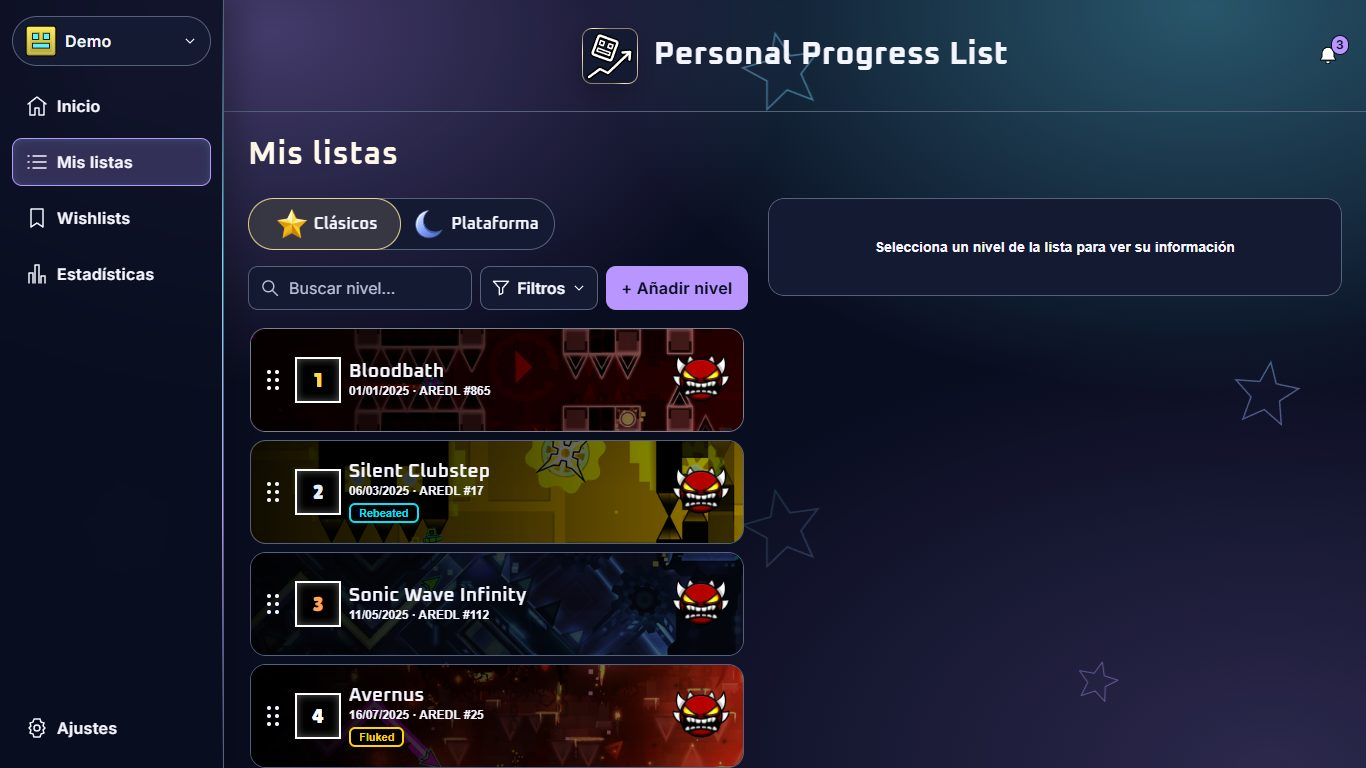
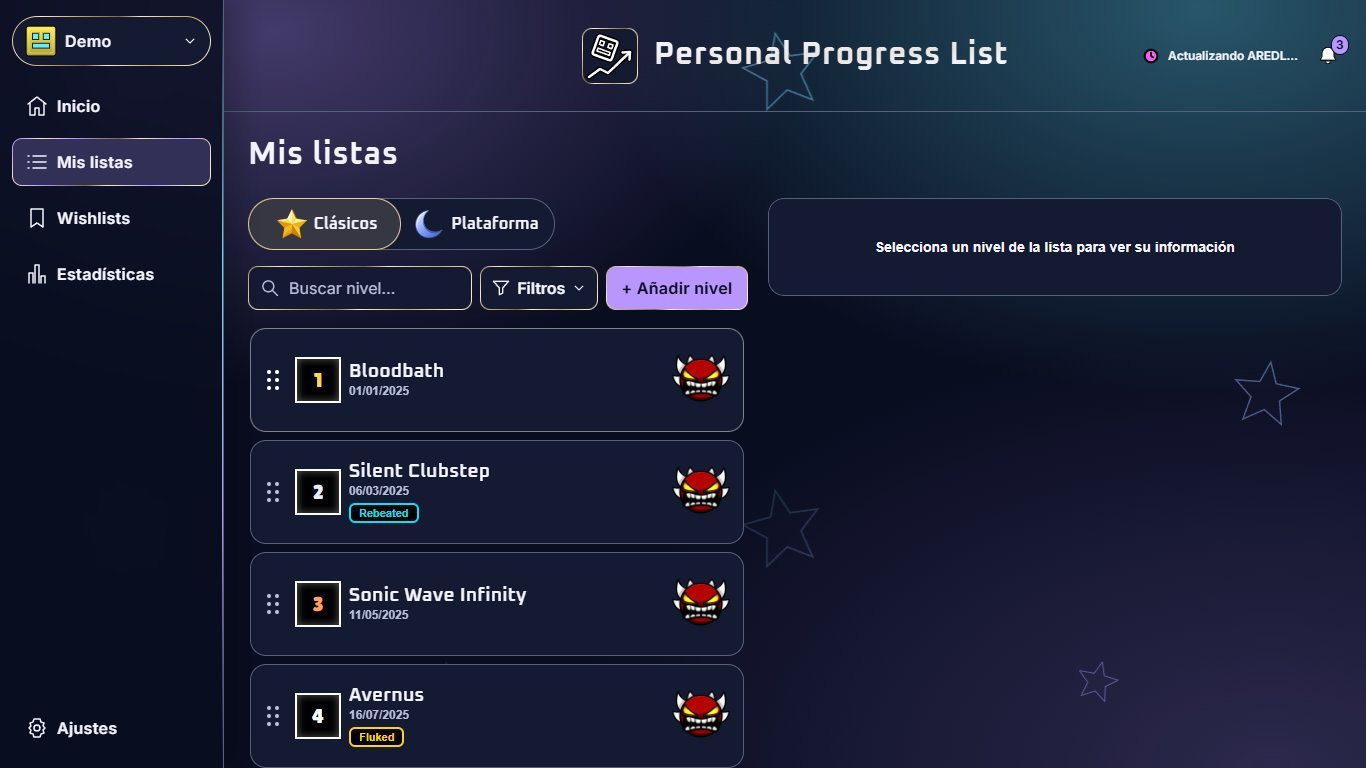
Share a one-pixel metallic finish across controls, panels and headings

diff --git a/css/styles.css b/css/styles.css
@@ -4044,82 +4044,79 @@ main.home {
   min-width: 0;
 }
 
-/* Two narrow faces give the frame a bevel at its actual display size. */
-.shell-brand-frame, .list-surface .rcol .hero {
-  position: relative;
-  border: 1px solid var(--metal-edge);
-  border-top-color: var(--metal-glint);
-  border-bottom-color: var(--metal-shade);
-  box-shadow: none;
-}
-@supports (mask-composite: exclude) {
-  .shell-brand-frame::after, .list-surface .rcol .hero::after {
-    content: '';
-    position: absolute;
-    inset: -1px;
-    padding: 2px;
-    border-radius: inherit;
-    pointer-events: none;
-    background:
-      linear-gradient(122deg, transparent 10%, var(--metal-glint) 13%, transparent 19% 69%, var(--metal-glint) 74%, transparent 80%),
-      conic-gradient(from 45deg, var(--metal-edge), var(--metal-shade) 25%, var(--metal-edge) 55%, var(--metal-glint) 77%, var(--metal-edge));
-    mask: linear-gradient(white 0 0) content-box, linear-gradient(white 0 0);
-    mask-composite: exclude;
-  }
-  .shell-brand-frame::before, .list-surface .rcol .hero::before {
-    content: '';
-    position: absolute;
-    inset: 1px;
-    pointer-events: none;
-    border-radius: calc(var(--radius-control) - 2px);
-    border: 1px solid var(--metal-shade);
-    border-right-color: var(--metal-glint);
-    border-bottom-color: var(--metal-edge);
-  }
-}
-
-/* Porcelain reflects light across the rim itself, including the Home card edges. */
+/* A single hairline follows the existing radius. Layered backgrounds also work on inputs. */
 @media (forced-colors: none) {
-  [data-theme=porcelain] :is(.shell-brand-frame, .hl .hcard) {
-    --rim-mid: #ceae79;
-    --rim-shade: #a9804c;
-    --rim-light: #fff1cf;
-    --rim-angle: 125deg;
-    border: 3px solid transparent;
+  :root :is(.shell-brand-frame, .hl .hcard, .hl .hstats-surface, .hl .hwish-rows,
+    .shell-sidebar .profile-pill, .shell-nav button[aria-current=page], .page-title button,
+    .hl .hadd, .lh #q, .lh .ms summary, .lh .list-clear, .lh .list-add,
+    .list-surface .rcol .box, .legacy-surface :is(.well, .wh, .kpi),
+    .trigs .trig, .modal .box, .dgb button, .wa button, .pause .appearance-option) {
+    border: 1px solid transparent;
     background:
-      linear-gradient(var(--color-surface), var(--color-surface)) padding-box,
-      linear-gradient(var(--rim-angle), var(--rim-mid) 3%, var(--rim-light) 13%, var(--rim-mid) 27%,
-        var(--rim-shade) 46%, var(--rim-light) 55%, var(--rim-mid) 74%, var(--rim-light) 93%) border-box;
+      linear-gradient(var(--rim-fill, var(--color-surface)), var(--rim-fill, var(--color-surface))) padding-box,
+      linear-gradient(var(--rim-angle, 125deg), var(--metal-edge) 3%, var(--metal-glint) 13%,
+        var(--metal-edge) 27%, var(--metal-shade) 46%, var(--metal-glint) 55%,
+        var(--metal-edge) 74%, var(--metal-glint) 93%) border-box;
     box-shadow: none;
   }
 
-  [data-theme=porcelain] .shell-brand-frame::before,
-  [data-theme=porcelain] .shell-brand-frame::after { content: none; }
-
-  [data-theme=porcelain] .hl .hcard-platform {
-    --rim-mid: #89b5bf;
-    --rim-shade: #538a99;
-    --rim-light: #e6faff;
+  .hl .hcard-platform {
+    --metal-edge: #89b5bf;
+    --metal-shade: #538a99;
+    --metal-glint: #e6faff;
+  }
+  .lh .list-add, .dgb .pri, .wa .pri {
+    --rim-fill: var(--color-accent);
+    color: var(--color-bg);
+    text-shadow: none;
+    -webkit-text-stroke: 0;
+  }
+  :is(.dgb, .wa) button { color: var(--color-text); text-shadow: none; -webkit-text-stroke: 0; }
+  .dgb button.pri, .wa button.pri { color: var(--color-bg); }
+  .dgb button.dg, .wa button.dg { --rim-fill: #903239; color: white; }
+  .modal .box { --rim-fill: var(--panel); }
+  .modal .dgb button:not(.pri):not(.dg) { --rim-fill: var(--color-surface); }
+  .shell-nav [aria-current=page], .lh .ms[open] summary,
+  .lh .ms:has(input:checked) summary, .pause .appearance-option[aria-pressed=true] {
+    --rim-fill: color-mix(in srgb, var(--color-accent) 18%, var(--color-surface));
+    --metal-edge: var(--color-accent);
   }
 
-  [data-theme=porcelain] .hl .hcard:hover:not(:disabled):not([aria-disabled=true]) {
-    border-color: transparent;
+  :is(.hcard, .hadd, .profile-pill, .appearance-option, .lh summary, .dgb button, .wa button):hover {
     --rim-angle: 140deg;
   }
-}
-
-@supports (background-clip: text) {
-  :root:not([data-theme=porcelain]) :is(.page-title h2, .hsection-head h2, .list-surface .box > h2) {
-    color: transparent;
-    background: linear-gradient(175deg, #fff9eb 24%, #efdec4 60%, #fff6de 85%);
-    background-clip: text;
+  .hl .hcard:hover:not(:disabled):not([aria-disabled=true]), .hl .hadd:hover:not(:disabled):not([aria-disabled=true]) {
+    border-color: transparent;
   }
-}
 
-@media (forced-colors: active) {
-  :root:not([data-theme=porcelain]) :is(.page-title h2, .hsection-head h2, .list-surface .box > h2) { color: CanvasText; }
-  :is(.shell-brand-frame, .list-surface .rcol .hero)::before,
-  :is(.shell-brand-frame, .list-surface .rcol .hero)::after { display: none; }
+  /* Detail images supply their own background, so paint the same thin edge above it. */
+  .list-surface .rcol .hero {
+    position: relative;
+    border: 1px solid var(--metal-edge);
+  }
+  @supports (mask-composite: exclude) {
+    .list-surface .rcol .hero::after {
+      content: '';
+      position: absolute;
+      inset: -1px;
+      border-radius: inherit;
+      padding: 1px;
+      pointer-events: none;
+      background: linear-gradient(125deg, var(--metal-edge), var(--metal-glint) 15%, var(--metal-shade) 45%, var(--metal-glint) 74%, var(--metal-edge));
+      mask: linear-gradient(white 0 0) content-box, linear-gradient(white 0 0);
+      mask-composite: exclude;
+    }
+  }
+
+  @supports (background-clip: text) {
+    :root :is(.shell-brand h1, .page-title h2, .hsection-head h2, .list-surface .box > h2, .legacy-surface .well h2) {
+      color: transparent;
+      background: linear-gradient(175deg, var(--color-text) 15%, color-mix(in srgb, var(--color-text) 76%, var(--metal-edge)) 54%, var(--color-text) 82%);
+      background-clip: text;
+      text-shadow: none;
+      -webkit-text-stroke: 0;
+    }
+  }
 }
 
 @media (width < 1280px) {

diff --git a/css/tokens.css b/css/tokens.css
@@ -156,9 +156,9 @@
   --color-surface-elevated: #E8ECF5;
   --color-border: #8591A8;
   --color-success: #18733D;
-  --metal-edge: #AF8851;
-  --metal-shade: #826039;
-  --metal-glint: #FFF3D5;
+  --metal-edge: #CEAE79;
+  --metal-shade: #A9804C;
+  --metal-glint: #FFF1CF;
   --color-warning: #846000;
   --color-error: #B62D49;
   --color-info: #176A9E;

diff --git a/docs/design-tokens.md b/docs/design-tokens.md
@@ -4,7 +4,7 @@
 
 ## Token groups
 
-- Themed: `--color-bg`, `--color-surface`, `--color-surface-elevated`, `--color-border`, `--color-text`, `--color-text-muted`, `--color-accent`, `--color-secondary-light`, `--color-focus`, `--color-success`, `--color-warning`, `--color-error`, `--color-info`, `--color-card-overlay`, `--color-card-text`, `--color-mode-classic`, `--color-mode-platform`, `--color-grid`, `--color-shadow` and `color-scheme`. Thumbnail captions retain a dark scrim and light text, even in Porcelain. Theme selectors also scope the same palette tokens to their preview elements; no preview hex values are duplicated. Orbital arcs and Celestial silhouettes pick up the accent and secondary light from the ambient gradients. The Celestial masks define the outlines and translucent moon fill. `--metal-edge`, `--metal-shade` and `--metal-glint` define the two faces of the narrow champagne bevel.
+- Themed: `--color-bg`, `--color-surface`, `--color-surface-elevated`, `--color-border`, `--color-text`, `--color-text-muted`, `--color-accent`, `--color-secondary-light`, `--color-focus`, `--color-success`, `--color-warning`, `--color-error`, `--color-info`, `--color-card-overlay`, `--color-card-text`, `--color-mode-classic`, `--color-mode-platform`, `--color-grid`, `--color-shadow` and `color-scheme`. Thumbnail captions retain a dark scrim and light text, even in Porcelain. Theme selectors also scope the same palette tokens to their preview elements; no preview hex values are duplicated. Orbital arcs and Celestial silhouettes pick up the accent and secondary light from the ambient gradients. The Celestial masks define the outlines and translucent moon fill. `--metal-edge`, `--metal-shade` and `--metal-glint` define the one-pixel reflective edge shared by framed controls and surfaces; heading highlights mix the edge with the active text color.
 - Fixed spacing: `--space-4`, `--space-8`, `--space-12`, `--space-16`, `--space-24`, `--space-32`, `--space-48`.
 - Fixed geometry: `--radius-control` (10px), `--radius-card` (12px), `--radius-panel` (16px), `--radius-pill` (999px); `--size-control` (44px minimum), `--size-border` (1px), `--size-focus` (2px, also the ring offset). `--shadow-panel` uses the themed shadow colour.
 - Fixed motion: `--motion-hover` (120ms), `--motion-selection` (180ms), `--motion-panel` (200ms), `--motion-easing` (cubic-bezier(.2,.8,.2,1)). Reduced motion disables new transitions and spinner animation, retaining a static loading indicator.
